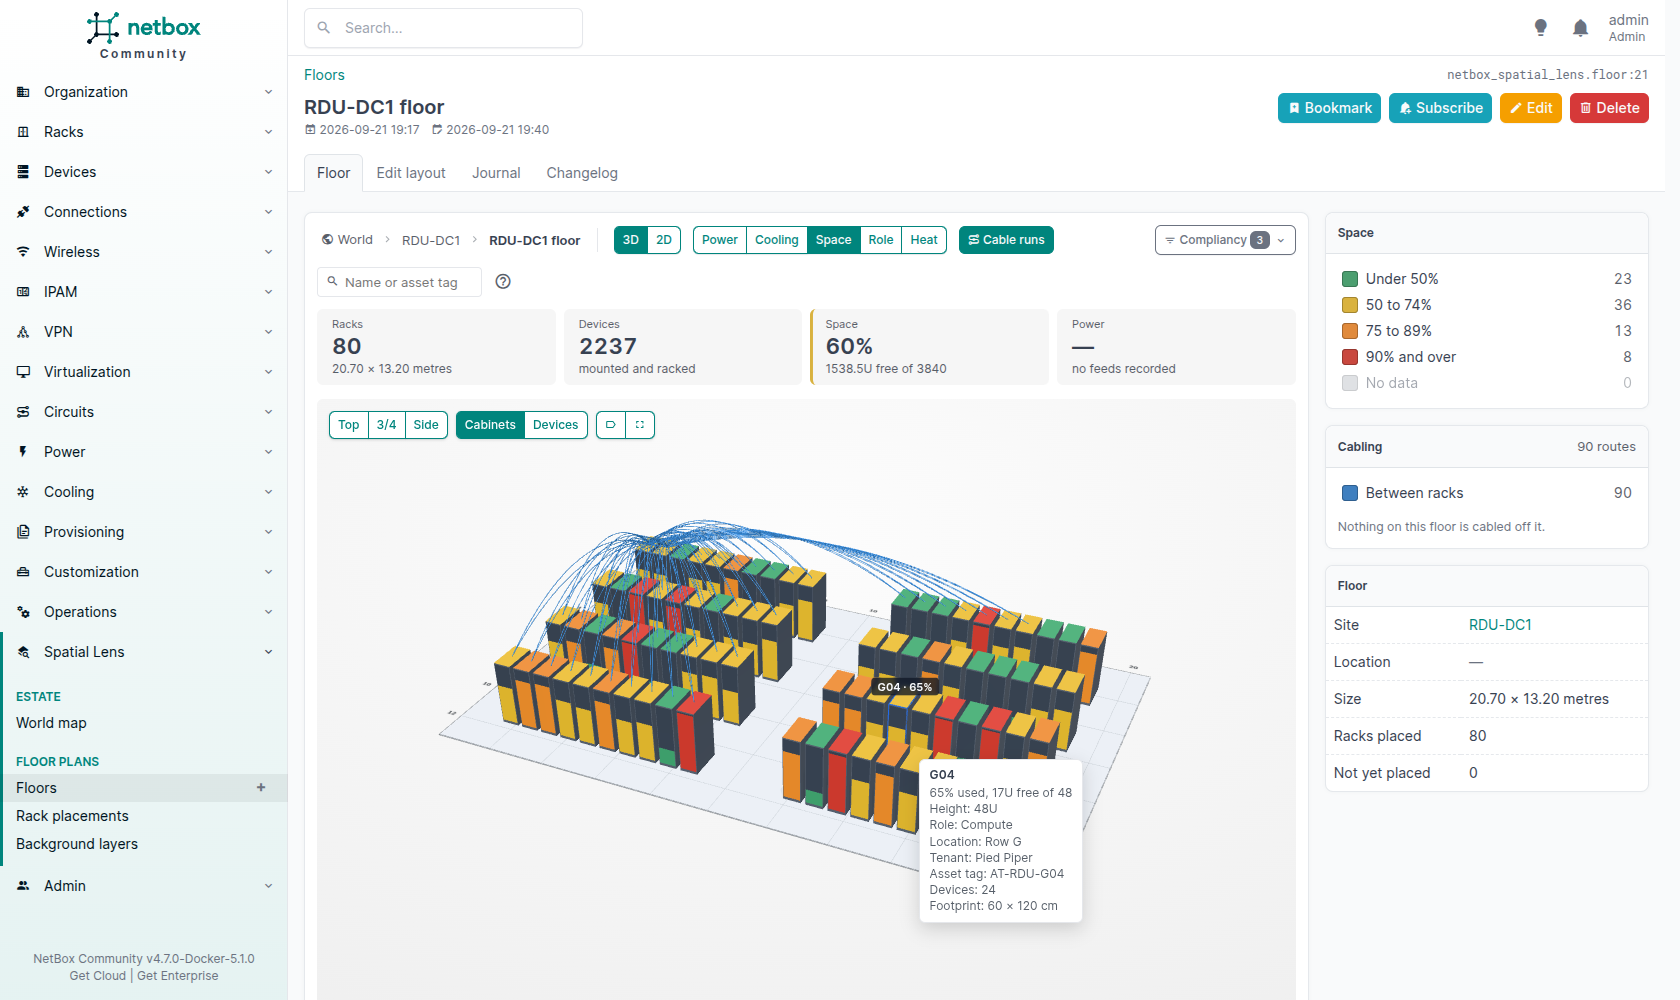
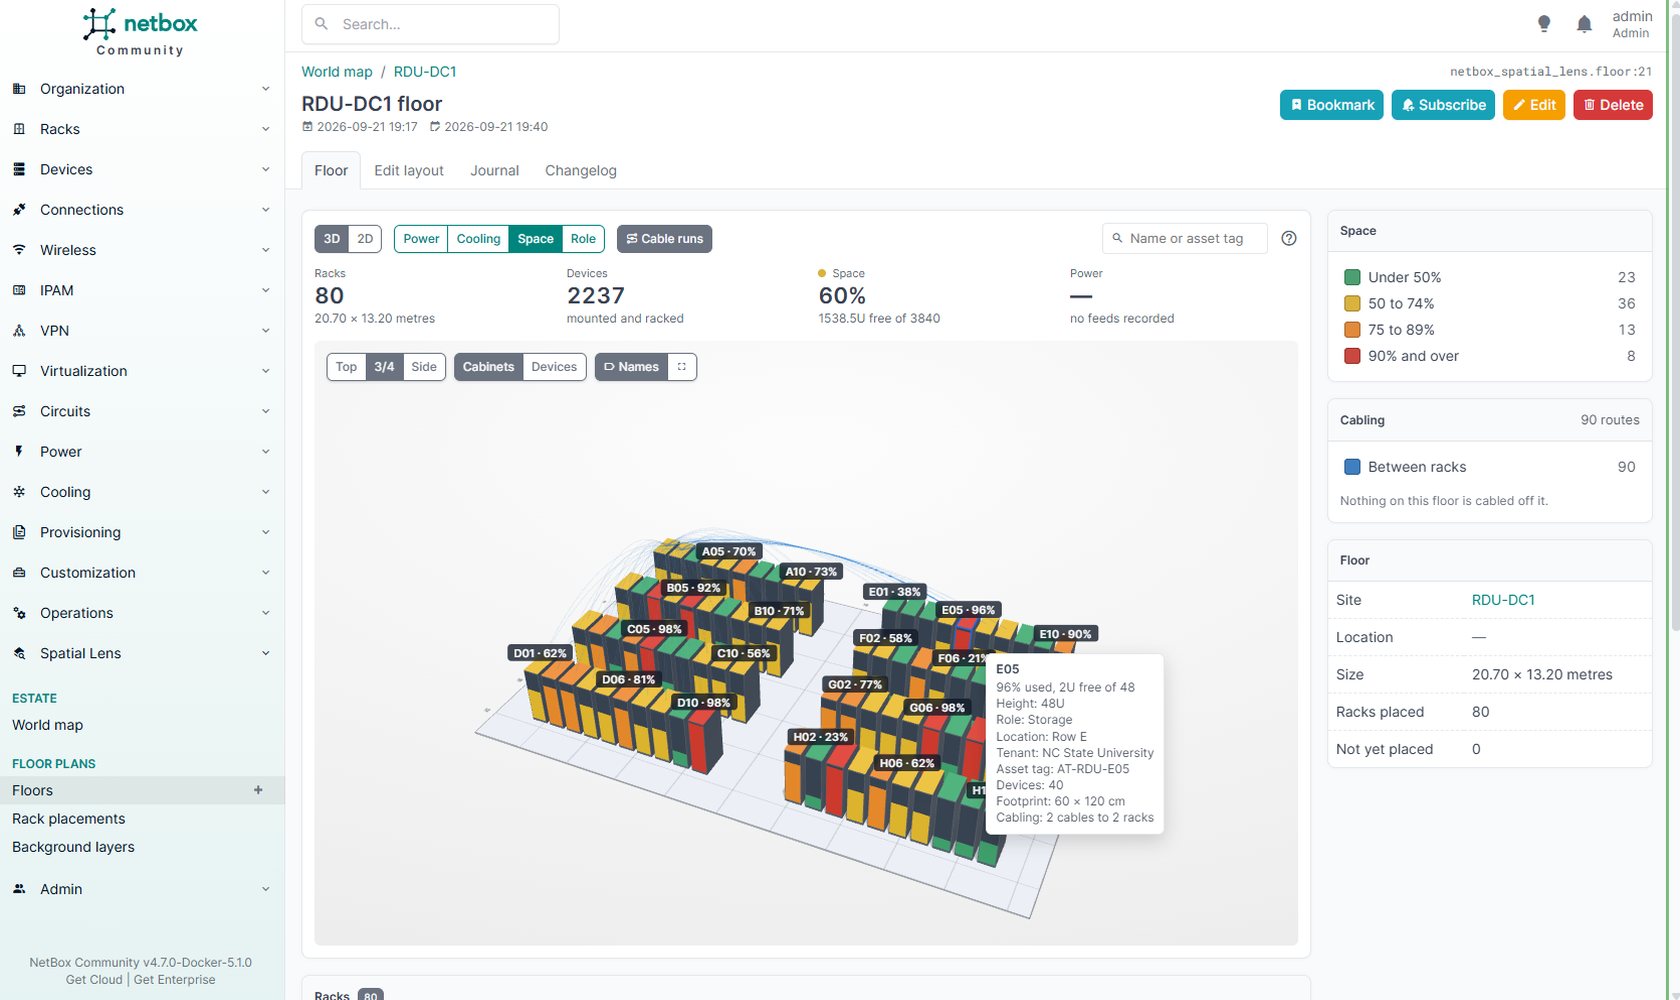
docs(readme): retake the captures on v0.5.0

diff --git a/README.md b/README.md
@@ -49,13 +49,13 @@ Every room in the site as a small plan with its own figures, on a tab of NetBox'
 
 ### The floor
 
-The room in 3D, every rack a cabinet at its real position, rotation and height, coloured by **power**, **cooling**, **space** or **role**, with the reading rising up its doors and the cable runs arcing over the tops. Look from the top, at three quarters or from the side, and switch from **Cabinets** to **Devices** to see every rack open with its real devices and their front and rear images. Switch to **2D** for the plan over a scanned drawing, with zoom. Both views share a sortable rack table. Find racks by name or asset tag, narrow them by tag or custom field, and place them in the layout editor.
+The room in 3D, every rack a cabinet at its real position, rotation and height, coloured by **power**, **cooling**, **space** or **role**, with the reading rising up its doors and the cable runs arcing over the tops, faint until you hover a rack. Look from the top, at three quarters or from the side, and switch from **Cabinets** to **Devices** to see every rack open with its real devices and their front and rear images. Switch to **2D** for the plan over a scanned drawing, with zoom. Both views share a sortable rack table. Find racks by name or asset tag, narrow them by tag or custom field, and place them in the layout editor.
 
-![A 20.7 by 13.2 metre data hall of 80 cabinets in eight rows of ten, two blocks of four rows either side of a central aisle, their roofs and doors coloured by how full they are, the leaf to spine uplinks arcing from every rack to the two spines in row A, and the hover card of rack G04](docs/images/floor-3d.png)
+![A 20.7 by 13.2 metre data hall of 80 cabinets in eight rows of ten, two blocks of four rows either side of a central aisle, their roofs and doors coloured by how full they are, the cable runs resting faint over the room, the two uplinks of rack E05 lit as it is hovered, and its hover card naming what it is cabled to](docs/images/floor-3d.png)
 
 ![The same hall of 80 racks in the Devices view: every cabinet open with its real devices, roofs coloured by rack role, and the hover card of one switch naming its rack, type and unit](docs/images/floor-devices.png)
 
-![The hall in the Devices view with "c" in the find box: the ten racks of row C stand out with their devices and every other rack fades, and the hover card of one router in C08](docs/images/floor-devices-find.png)
+![The hall in the Devices view with "c" in the find box: the ten racks of row C stand out with their devices and every other rack fades, and the hover card of one switch in C08](docs/images/floor-devices-find.png)
 
 ### The rack
 
